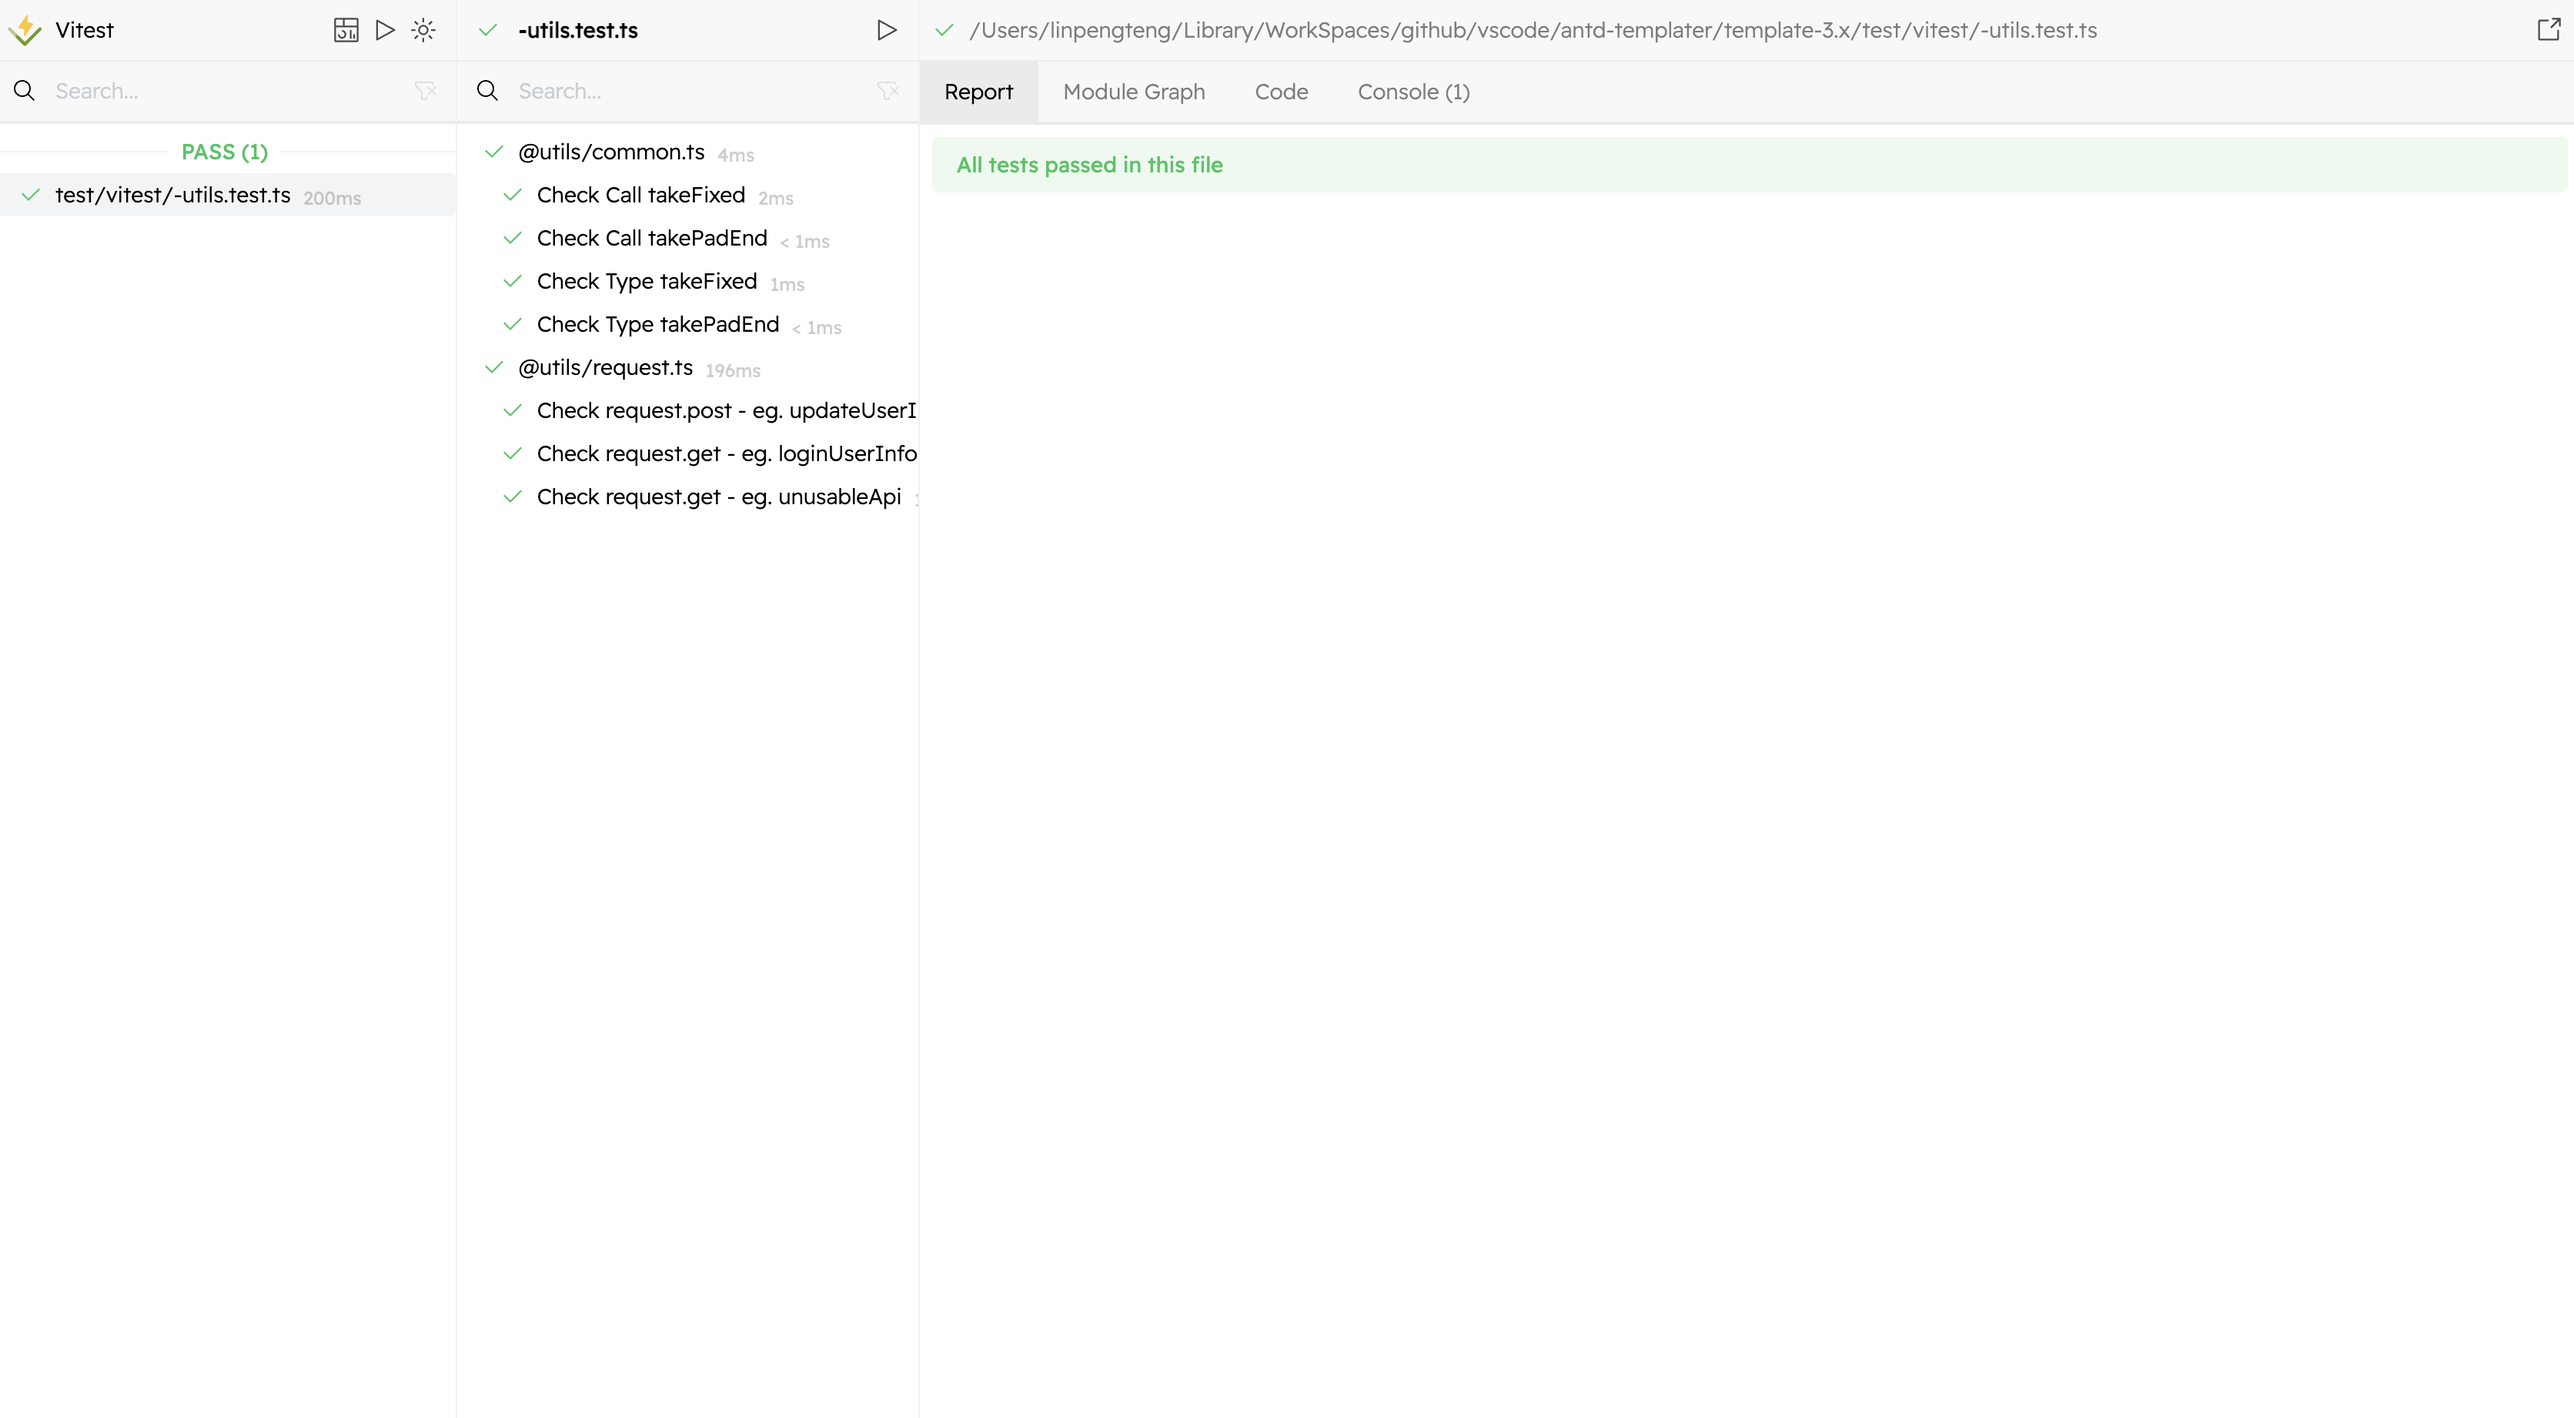
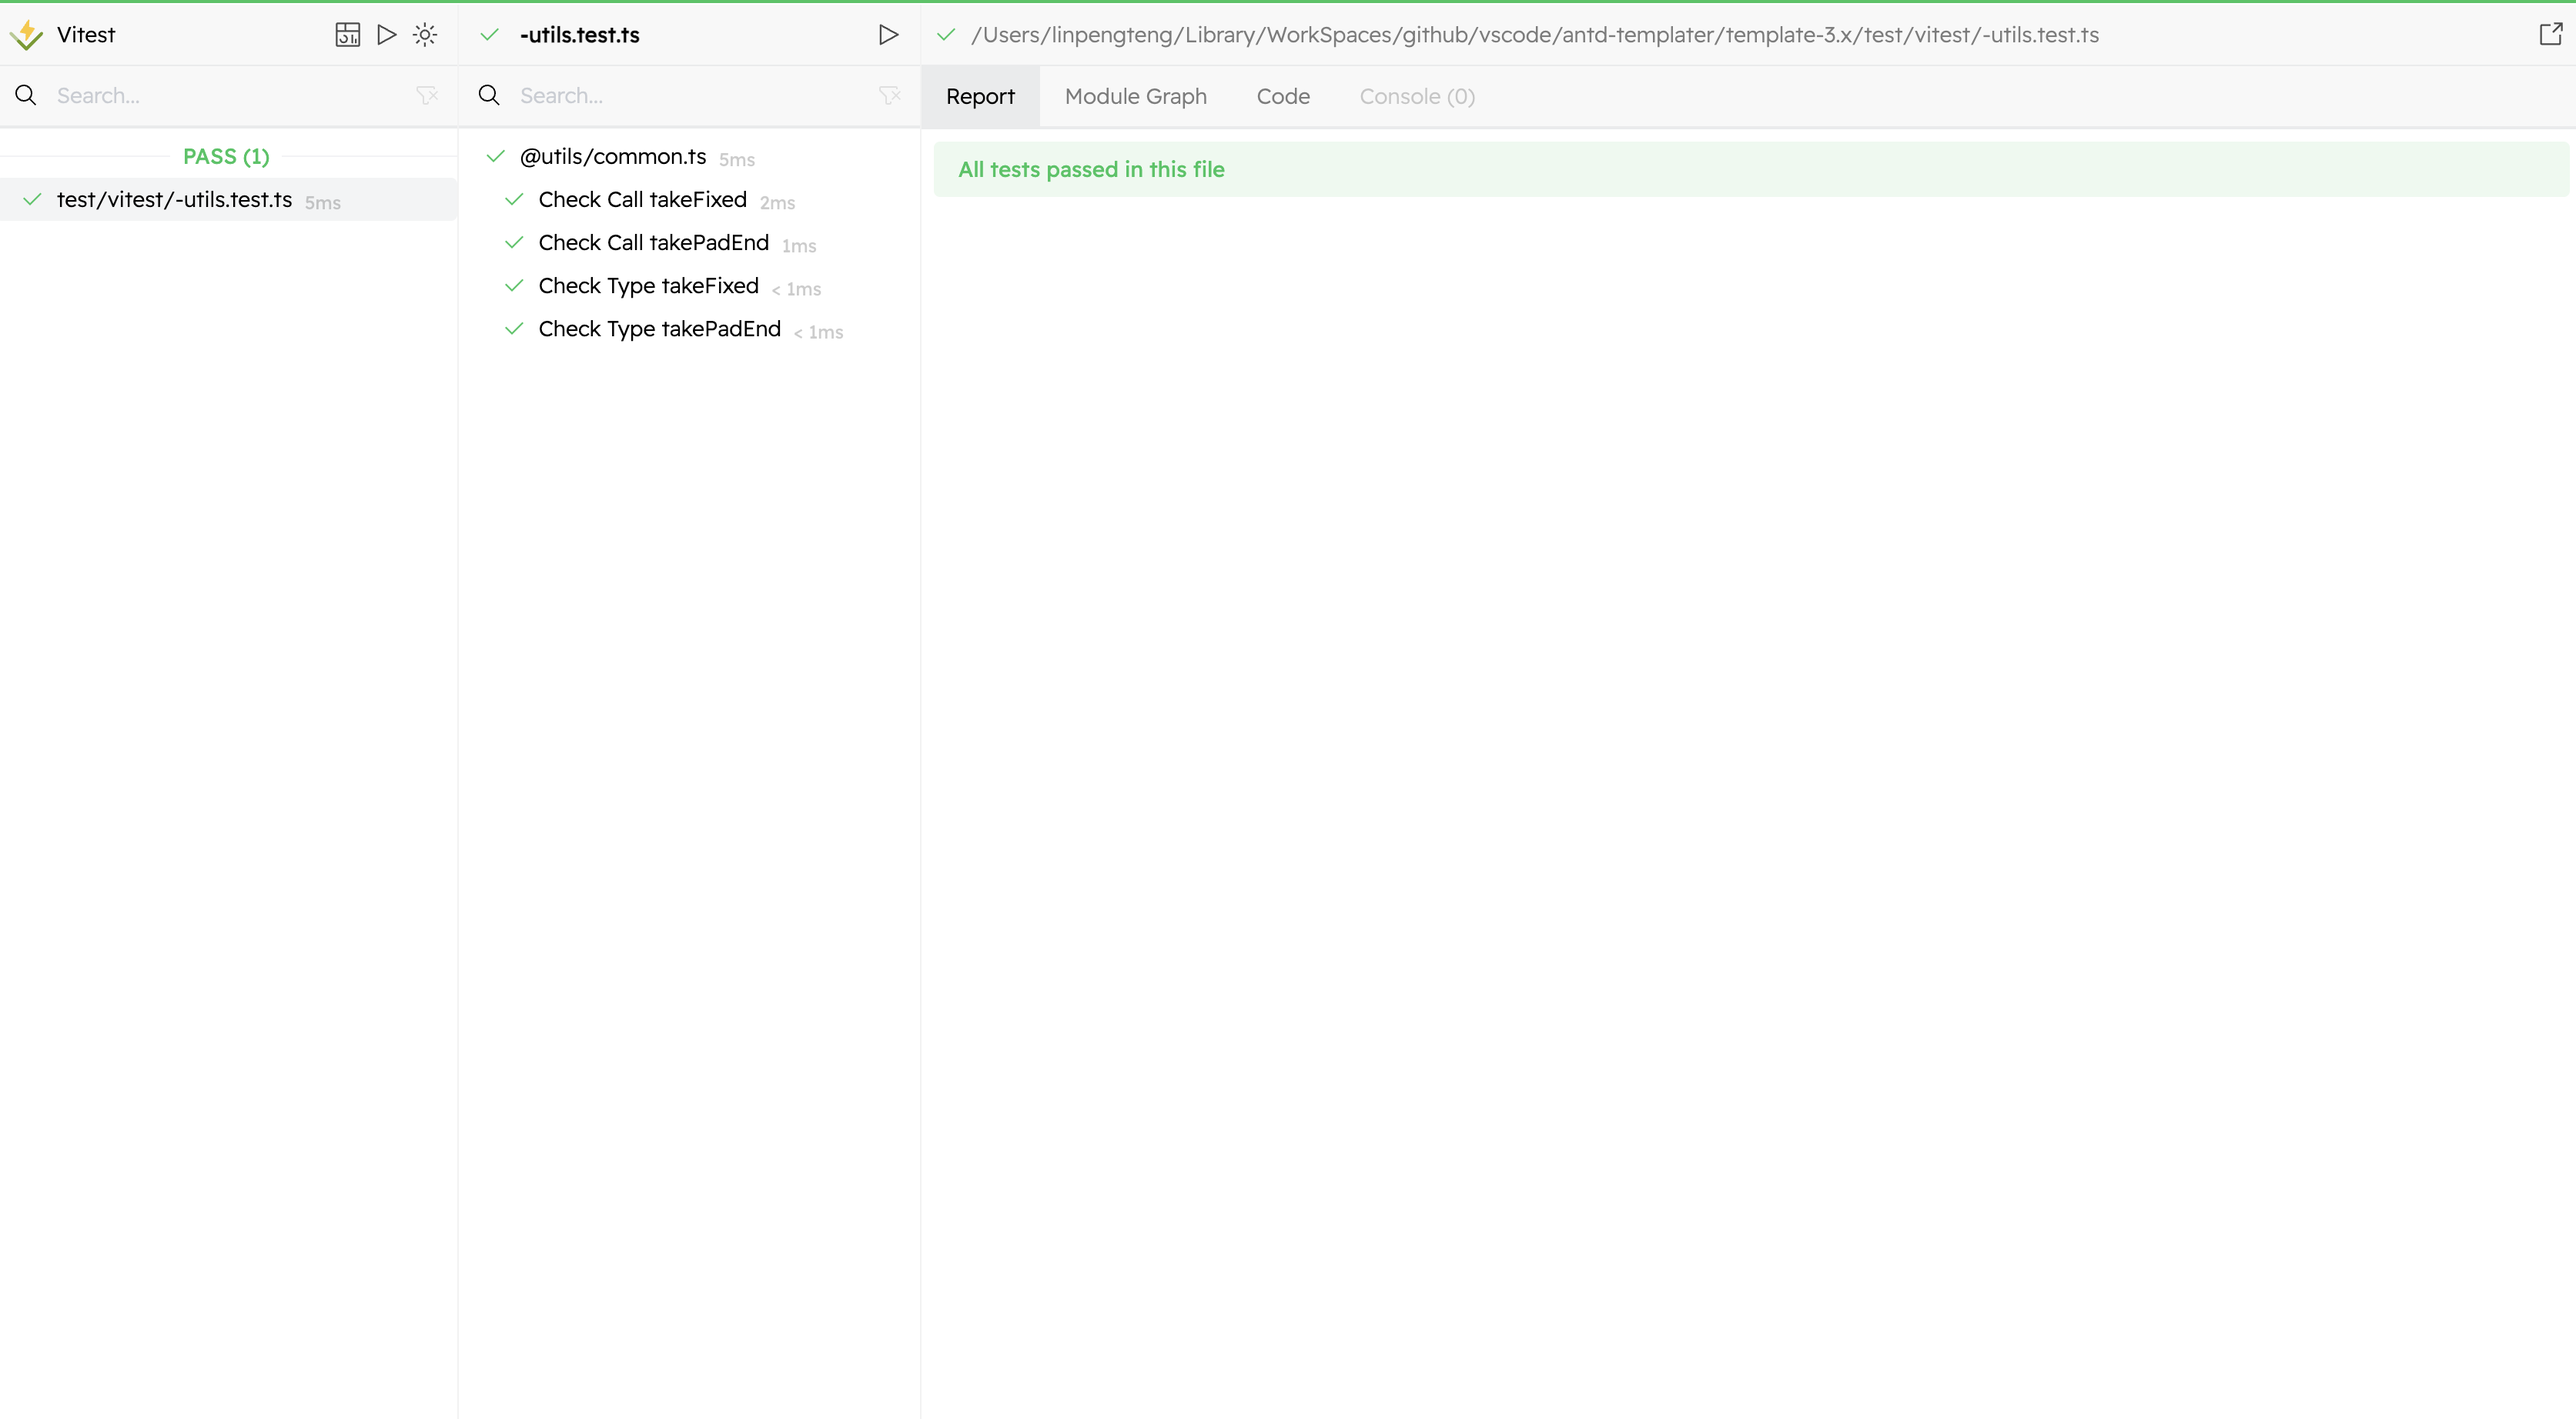
chore: modify guide/test.md

diff --git a/src/guide/tests.md b/src/guide/tests.md
@@ -46,22 +46,10 @@ aside: false
 ::: code-group
 
 ```typescript:line-numbers [范例 - utils.test]
-import { request } from "@/utils/request";
 import { takeFixed } from "@/utils/common";
 import { TakeFixed } from "@/utils/common";
 import { takePadEnd } from "@/utils/common";
 import { TakePadEnd } from "@/utils/common";
-import { http, HttpResponse } from "msw";
-import { setupServer } from "msw/node";
-import { AxiosError } from "axios";
-
-vi.mock("@/store/user", () => {
-  const module = {
-    token: "",
-    logout: () => Promise.resolve()
-  };
-  return { default: vi.fn(() => module) };
-});
 
 describe("@utils/common.ts", () => {
   it("Check Call takeFixed", () => {
@@ -78,56 +66,6 @@ describe("@utils/common.ts", () => {
 
   it("Check Type takePadEnd", () => {
     return expectTypeOf(takePadEnd).toEqualTypeOf<TakePadEnd>();
-  });
-});
-
-describe("@utils/request.ts", () => {
-  const server = setupServer(
-    http.post("http://api.test.com/updateUserInfo", () => {
-      return HttpResponse.json({
-        code: "0000",
-        message: null,
-        result: "success"
-      });
-    }),
-
-    http.get("http://api.test.com/loginUserInfo", () => {
-      return HttpResponse.json({
-        code: "0000",
-        message: null,
-        result: { name: "admin", email: "admin@gmail.com" }
-      });
-    })
-  );
-
-  beforeAll(() => server.listen({ onUnhandledRequest: "error" }));
-  afterEach(() => server.resetHandlers());
-  afterAll(() => server.close());
-
-  it("Check request.post - eg. updateUserInfo", async () => {
-    const options = {
-      url: "http://api.test.com/updateUserInfo",
-      method: "post"
-    };
-    const response = { code: "0000", message: null, result: "success" };
-    await expect(request(options)).resolves.toMatchObject(response);
-  });
-
-  it("Check request.get - eg. loginUserInfo", async () => {
-    const options = { url: "http://api.test.com/loginUserInfo", method: "get" };
-    const response = {
-      code: "0000",
-      message: null,
-      result: { name: "admin", email: "admin@gmail.com" }
-    };
-    await expect(request(options)).resolves.toMatchObject(response);
-  });
-
-  it("Check request.get - eg. unusableApi", async () => {
-    const options = { url: "http://api.test.com/unusableApi", method: "get" };
-    await expect(request(options)).rejects.toStrictEqual(
-      expect.any(AxiosError)
-    );
   });
 });
 ```
